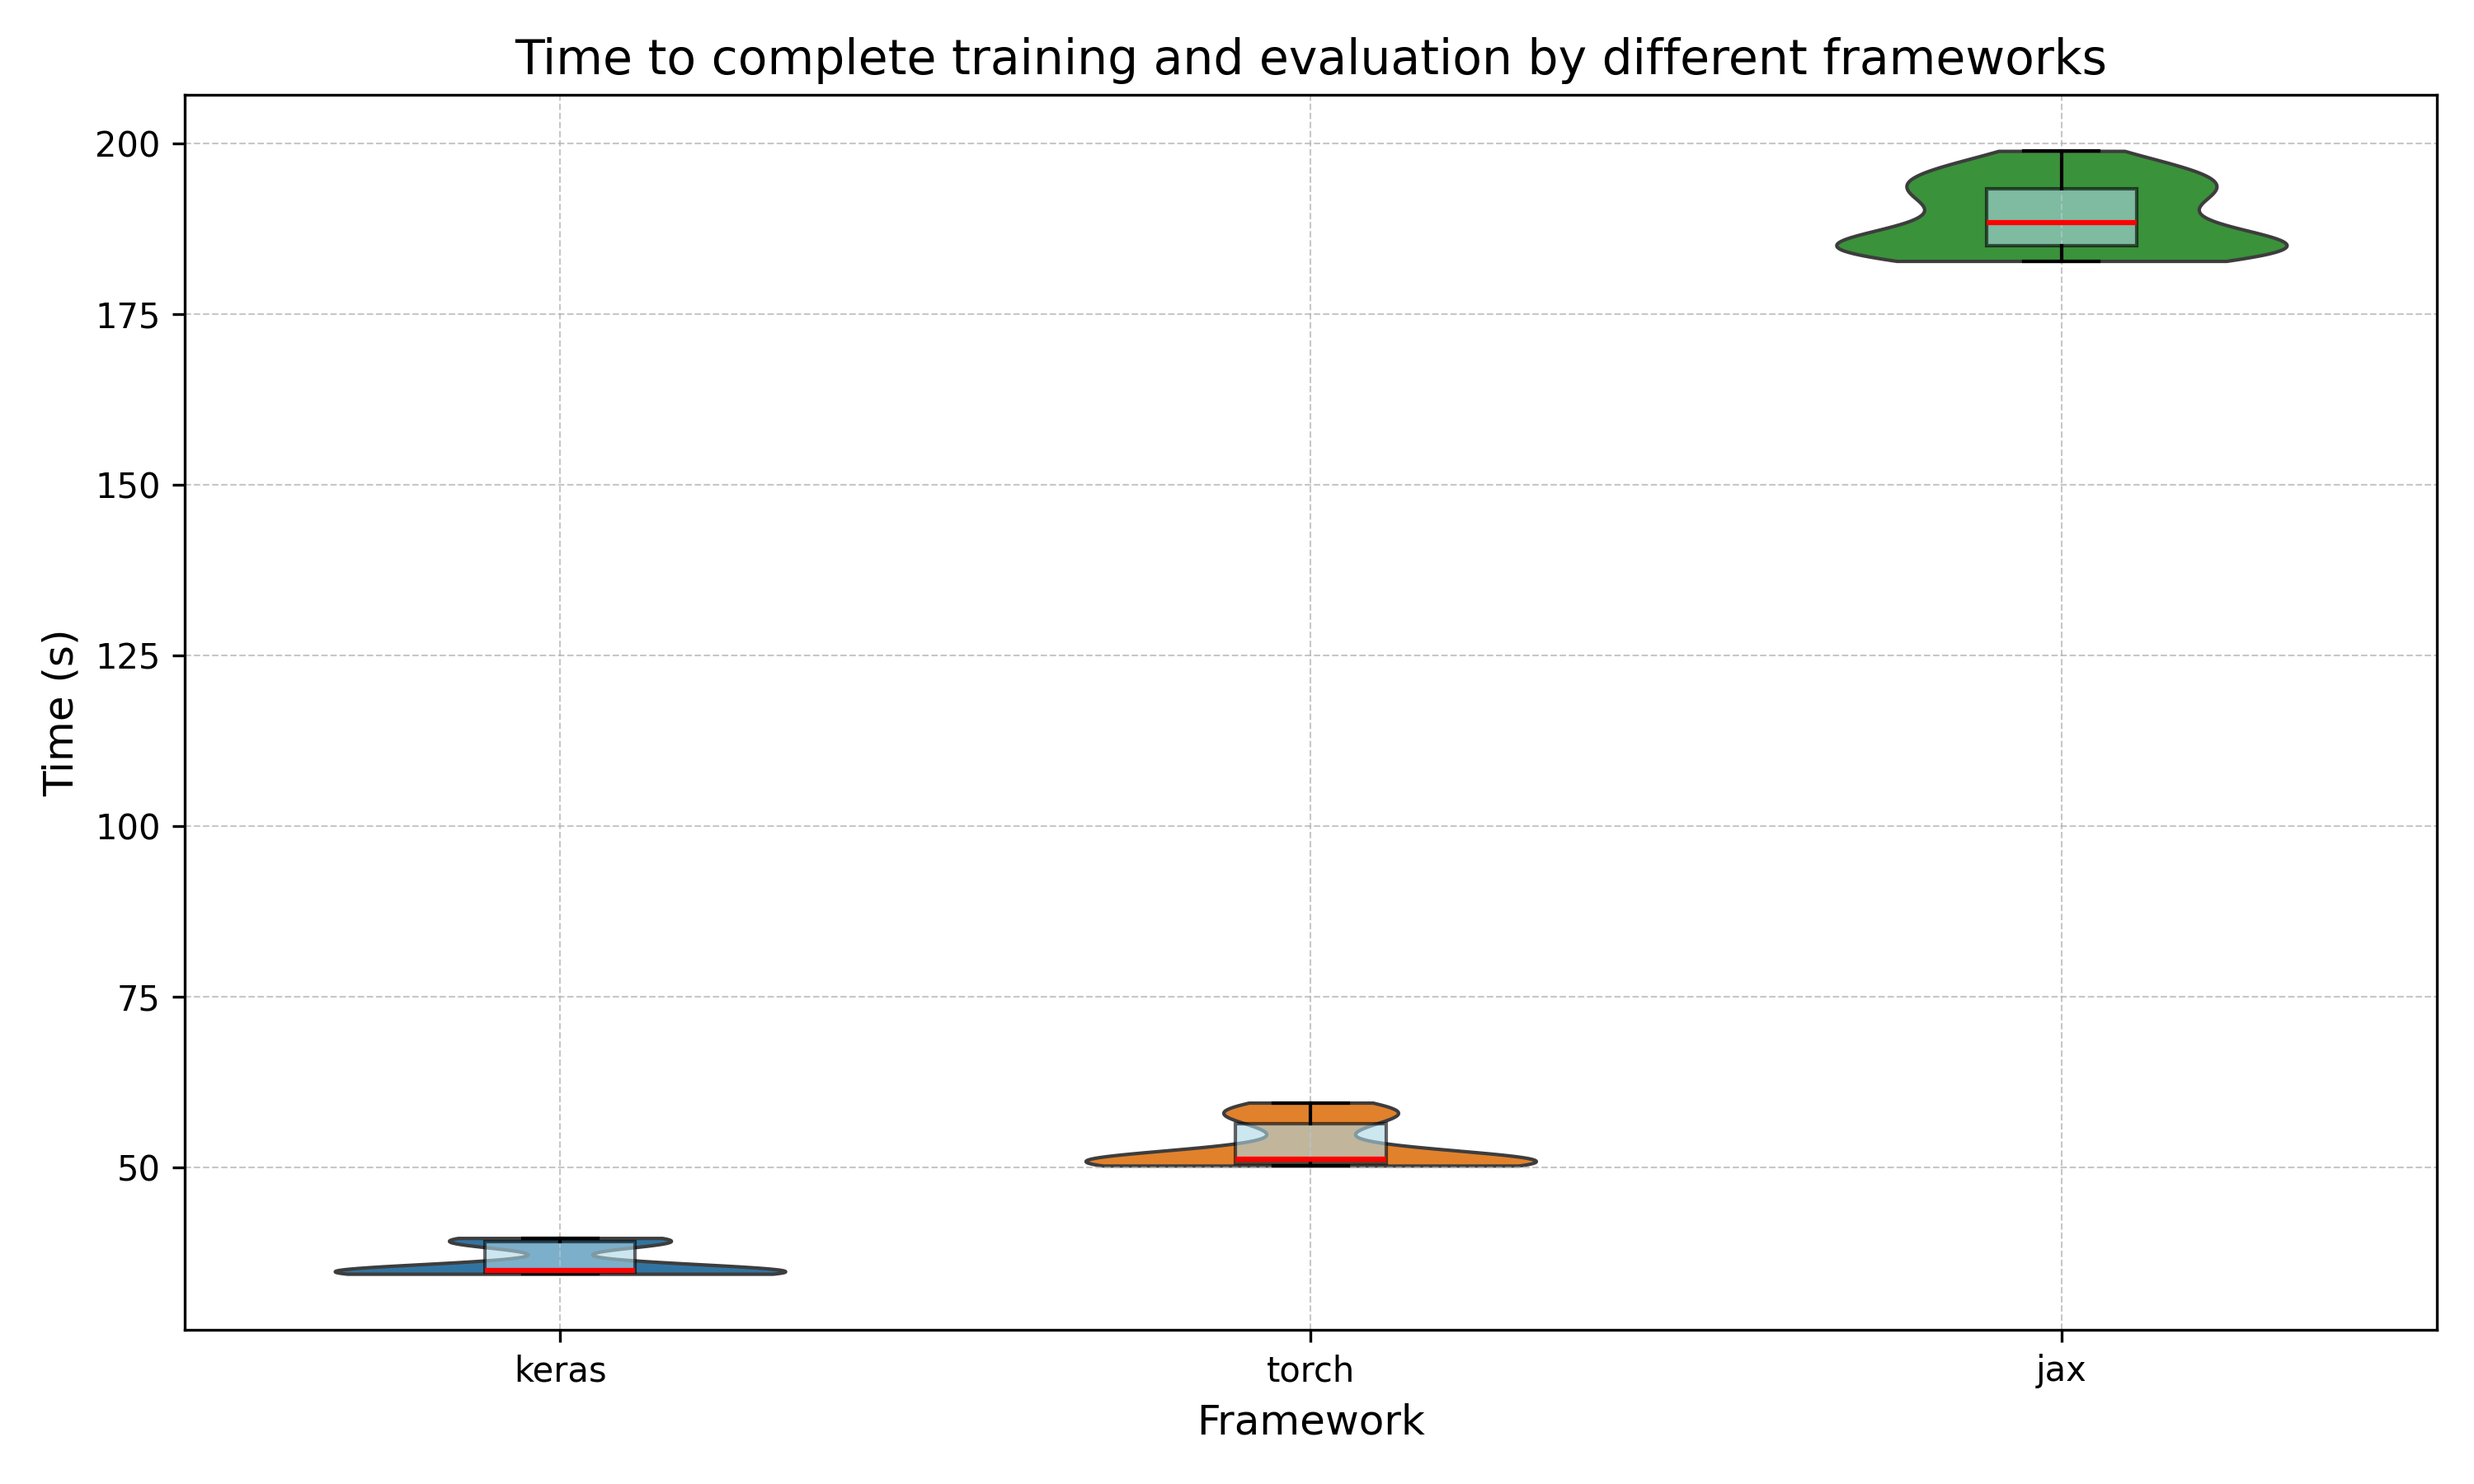
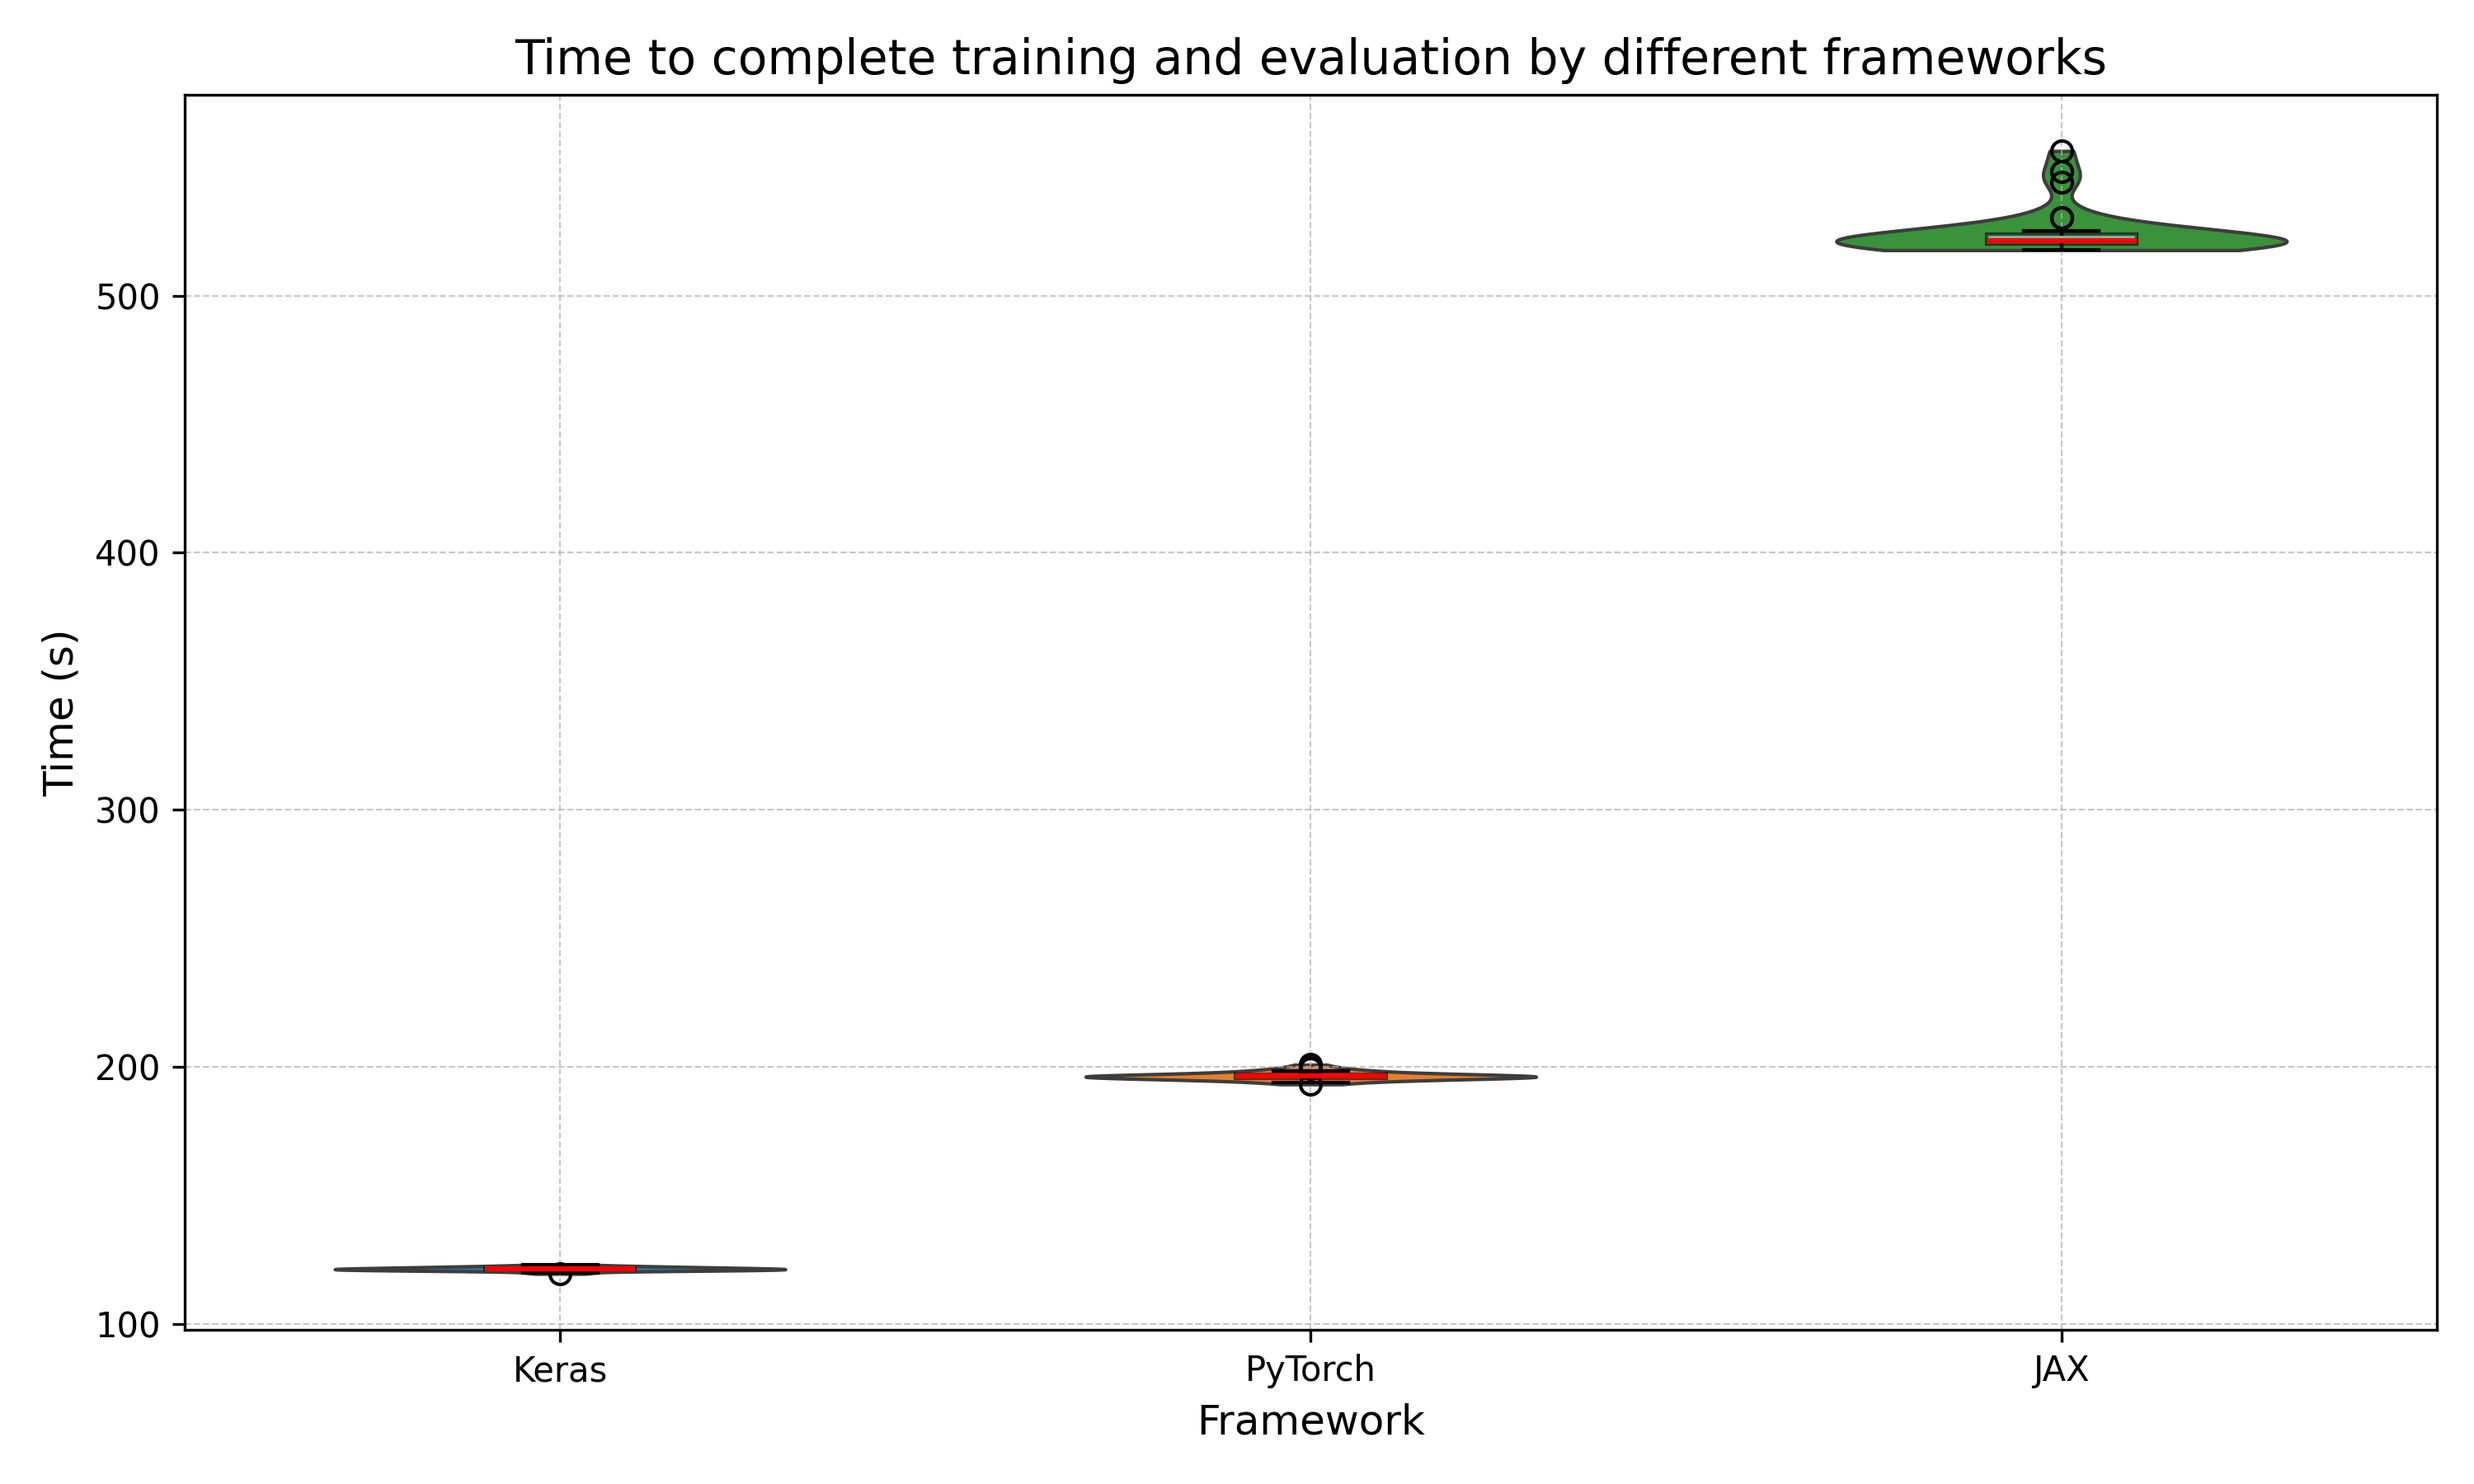
update plots and stats

diff --git a/2025/p1_measuring_software/g2_ml_libraries.md b/2025/p1_measuring_software/g2_ml_libraries.md
@@ -167,25 +167,32 @@ Effect size analysis -->
 This section answers the question if the differences in performance are statistically significant.
 First, we assess the distribution of the data using the Shapiro-Wilk test, which tests for normality:
 
-| Metric     | Keras  | PyTorch | JAX    |
-| ---------- | ------ | ------- | ------ |
-| **Time**   | 0.0000 | 0.0000  | 0.0045 |
-| **Energy** | 0.0000 | 0.0000  | 0.0066 |
-| **Power**  | 0.0000 | 0.0001  | 0.0003 |
-| **EDP**    | 0.0000 | 0.0000  | 0.0051 |
+| Metric     | Keras        | PyTorch      | JAX     |
+|-----------|-------------|-------------|-------------|
+| **Time**   | 0.7846      | 0.2476      | 1.01e-07    |
+| **Energy** | 0.0006      | 0.3966      | 1.65e-08    |
+| **Power**  | 0.5148      | 0.0261      | 4.02e-08    |
+| **EDP**    | 0.3276      | 0.8744      | 1.72e-08    |
+
 
 Each cell is the p-value of the Shapiro-Wilk test for certain combination of metric and framework.
-Since all p-values are significantly below 0.05, we need to reject the hypothesis that this data follows a normal distribution.
-Therefore, the Mann-Whitney U test will be used to compare the distributions.
+For the p-values which are significantly below 0.05, we need to reject the hypothesis 
+that this data follows a normal distribution.
+Therefore, the Mann-Whitney U test will be used to compare those distributions.
+The only pairs of distributions which both have a p-value above 0.05 are Keras and PyTorch 
+on the time and EDP metric, for that comparison the independent t-test 
+will be used since we cannot reject normality of those distributions.
 
-The table below presents the p-values for the respective statistical tests comparing the distributions of each framework across time, energy, and power metrics.
+The table below presents the p-values for the respective statistical tests comparing 
+the distributions of each framework across time, energy, power and EDP metrics.
 
 | Metric | Keras vs PyTorch | Keras vs JAX | PyTorch vs JAX |
 | ------ | ---------------- | ------------ | -------------- |
-| Time   | 1.43e-14         | 1.10e-13     | 1.09e-13       |
-| Energy | 1.44e-14         | 1.10e-13     | 1.10e-13       |
-| Power  | 3.90e-05         | 1.10e-13     | 1.10e-13       |
-| EDP    | 1.44e-14         | 1.10e-13     | 1.10e-13       |
+| Time   | 8.58e-82 (t-test) | 2.01e-12 (MWU) | 2.72e-12 (MWU) |
+| Energy | 2.09e-13 (MWU)  | 2.72e-12 (MWU) | 3.72e-12 (MWU) |
+| Power  | 1.06e-04 (MWU)  | 2.01e-12 (MWU) | 3.72e-12 (MWU) |
+| EDP    | 1.03e-63 (t-test) | 2.01e-12 (MWU) | 2.72e-12 (MWU) |
+
 
 As can be observed, each p-value is significantly below 0.05,
 confirming that the observed differences between frameworks in time, energy, power consumption
@@ -209,10 +216,10 @@ can make.
 
 | Metric     | Keras (Median) | Torch (Median) | Percentage Increase/Decrease |
 |------------|---------------|---------------|----------------------------|
-| **Time**   | 34.8795 s     | 51.2845 s     | **+47.03%**                |
-| **Energy** | 2244.1858 J   | 3165.7848 J   | **+41.07%**                |
-| **Power**  | 64.1953 W     | 61.6155 W     | **-4.02%**                 |
-| **EDP**    | 78221.6761 J⋅s | 161881.9898   | **+106.95%**               |
+| **Time**   | 121.512 s     | 196.501 s     | **+61.71%**                |
+| **Energy** | 4910.2352 J   | 7989.4385 J   | **+62.71%**                |
+| **Power**  | 40.4442 W     | 40.5893 W     | **+0.36%**                 |
+| **EDP**    | 597288.5663 J⋅s | 1569504.3747 J⋅s | **+162.77%**               |
 
 ---
 
@@ -220,11 +227,10 @@ can make.
 
 | Metric     | Torch (Median) | JAX (Median)  | Percentage Increase/Decrease |
 |------------|---------------|--------------|----------------------------|
-| **Time**   | 51.2845 s     | 188.3840 s   | **+267.33%**               |
-| **Energy** | 3165.7848 J   | 10605.8137 J | **+235.01%**               |
-| **Power**  | 61.6155 W     | 56.2227 W    | **-8.75%**                 |
-| **EDP**    | 161881.9898 J⋅s | 1976934.6552 | **+1121.22%**              |
-
+| **Time**   | 196.501 s     | 521.436 s    | **+165.36%**               |
+| **Energy** | 7989.4385 J   | 15461.0326 J | **+93.52%**                |
+| **Power**  | 40.5893 W     | 29.6987 W    | **-26.83%**                |
+| **EDP**    | 1569504.3747 J⋅s | 8055534.4505 J⋅s | **+413.25%**              |
 
 ---
 
@@ -232,25 +238,30 @@ can make.
 
 | Metric     | Keras (Median) | JAX (Median)  | Percentage Increase/Decrease |
 |------------|---------------|--------------|----------------------------|
-| **Time**   | 34.8795 s     | 188.3840 s   | **+440.1%**               |
-| **Energy** | 2244.1858 J   | 10605.8137 J | **+372.59%**               |
-| **Power**  | 64.1953 W     | 56.2227 W    | **-12.42%**                |
-| **EDP**    | 78221.6761 J⋅s | 1976934.6552 | **+2427.35%**              |
+| **Time**   | 121.512 s     | 521.436 s    | **+329.12%**               |
+| **Energy** | 4910.2352 J   | 15461.0326 J | **+214.87%**               |
+| **Power**  | 40.4442 W     | 29.6987 W    | **-26.57%**                |
+| **EDP**    | 597288.5663 J⋅s | 8055534.4505 J⋅s | **+1248.68%**              |
 
 
 ## Discussion
 
-It should come as no surprise that TensorFlow (Keras) is the most efficient framework, since its design philosophy is to prioritize performance and scalability for large-scale models. As shown in [Table 1](#table-1-keras-vs-torch), Keras completes the task in 34.8795 seconds, whereas PyTorch takes 51.2845 seconds, a **47.03% increase** in execution time. Similarly, energy consumption for PyTorch is 3165.7848 J, which is **41.07% higher** than Keras. The power consumption difference is marginal at **-4.02%**, indicating that the increased energy usage is primarily due to the longer execution time rather than significantly higher power draw.
+It should come as no surprise that TensorFlow (Keras) is the most efficient framework, since its design philosophy is to prioritize performance 
+and scalability for large-scale models according to [Simplilearn]. As shown in [Table 1](#table-1-keras-vs-torch), 
+Keras completes the task in **121.512 seconds**, whereas PyTorch takes **196.501 seconds**, a **61.71% increase** in execution time. 
+Similarly, energy consumption for PyTorch is **7989.4385 J**, which is **62.71% higher** than Keras. The power consumption 
+difference is marginal at **+0.36%**, indicating that the increased energy usage is primarily due to the longer execution time rather than significantly higher power draw.
 
-PyTorch is more geared towards small-scale models and prioritizes simplicity and adaptability according to [Simplilearn]. This aligns with the results in [Table 2](#table-2-torch-vs-jax), where PyTorch outperforms JAX in both time and energy consumption. PyTorch completes the task in 51.2845 seconds, while JAX takes 188.3840 seconds, marking a **267.33% increase**. The energy consumption follows a similar pattern, with JAX consuming 10605.8137 J, a **235.01% increase** compared to PyTorch.
+PyTorch is more geared towards small-scale models and prioritizes simplicity and adaptability according to [Simplilearn]. 
+This aligns with the results in [Table 2](#table-2-torch-vs-jax), where PyTorch outperforms JAX in both time and energy consumption. 
+PyTorch completes the task in **196.501 seconds**, while JAX takes **521.436 seconds**, marking a **165.36% increase**. 
+The energy consumption follows a similar pattern, with JAX consuming **15461.0326 J**, a **93.52% increase** compared to PyTorch.
 
-The JAX framework coming in last might be because experiments were executed on the CPU, and a key
-feature of JAX is that it uses Accelerated Linear Algebra (XLA) and just-in-time (JIT) compilation to
-achieve better performance on GPUs and TPUs according to their [Github]. This is further emphasized in
-[Table 3](#table-3-keras-vs-jax), where JAX performs significantly worse than Keras.
-JAX takes 188.3840 seconds, which is **440.1% longer** than Keras, and consumes 10605.8137 J,
-a **372.59% increase** in energy consumption. However, the JAX framework might not have come to full
-fruition in this experiment since only CPU performance is considered here.
+The JAX framework coming in last might be because experiments were executed on the CPU, and a key feature of JAX is that it uses
+ Accelerated Linear Algebra (XLA) and just-in-time (JIT) compilation to achieve better performance on GPUs and TPUs according to
+  their [Github]. This is further emphasized in [Table 3](#table-3-keras-vs-jax), where JAX performs significantly worse than Keras.  
+JAX takes **521.436 seconds**, which is **329.12% longer** than Keras, and consumes **15461.0326 J**, a **214.87% increase** in
+ energy consumption. However, the JAX framework might not have come to full fruition in this experiment since only CPU performance is considered here.
 
 [Simplilearn]: https://www.simplilearn.com/keras-vs-tensorflow-vs-pytorch-article
 [Github]: https://github.com/jax-ml/
@@ -272,15 +283,18 @@ to the test.
 
 ## Conclusion
 
-In this report, we conducted an experiment to assess the energy efficiency of the popular ML
-frameworks TensorFlow (Keras), PyTorch, and JAX. We found that TensorFlow (Keras) had the fastest
-execution time and consumed the least amount of energy when tasked with training a convolutional
-neural network for 1 epoch and evaluating its accuracy. The second fastest and most energy-efficient
-framework was PyTorch, but it already took 47.03% more time and consumed 41.07% more energy compared
-to TensorFlow (Keras). The JAX framework performed worst, taking 267.33% more time and consuming
-235.01% more energy compared to the PyTorch framework (which already came in second).
-Given the large scale at which ML frameworks are usually deployed, these relative differences
-in energy consumption can lead to monumental differences in practice.
+In this report, we conducted an experiment to assess the energy efficiency of the popular ML frameworks TensorFlow (Keras), PyTorch, and JAX. 
+We found that TensorFlow (Keras) had the fastest execution time and consumed the least amount of energy when tasked with training a convolutional 
+neural network for 3 epochs and evaluating its accuracy.  
+
+The second fastest and most energy-efficient framework was PyTorch,
+ but it already took **61.71% more time** and consumed **62.71% more energy** compared to TensorFlow (Keras). 
+ The JAX framework performed worst, taking **165.36% more time** and consuming **93.52% more energy** 
+ compared to the PyTorch framework (which already came in second).  
+
+Given the large scale at which ML frameworks are usually deployed, these relative differences in 
+energy consumption can lead to monumental differences in practice.
+
 
 ## Appendix - Raw data
 
